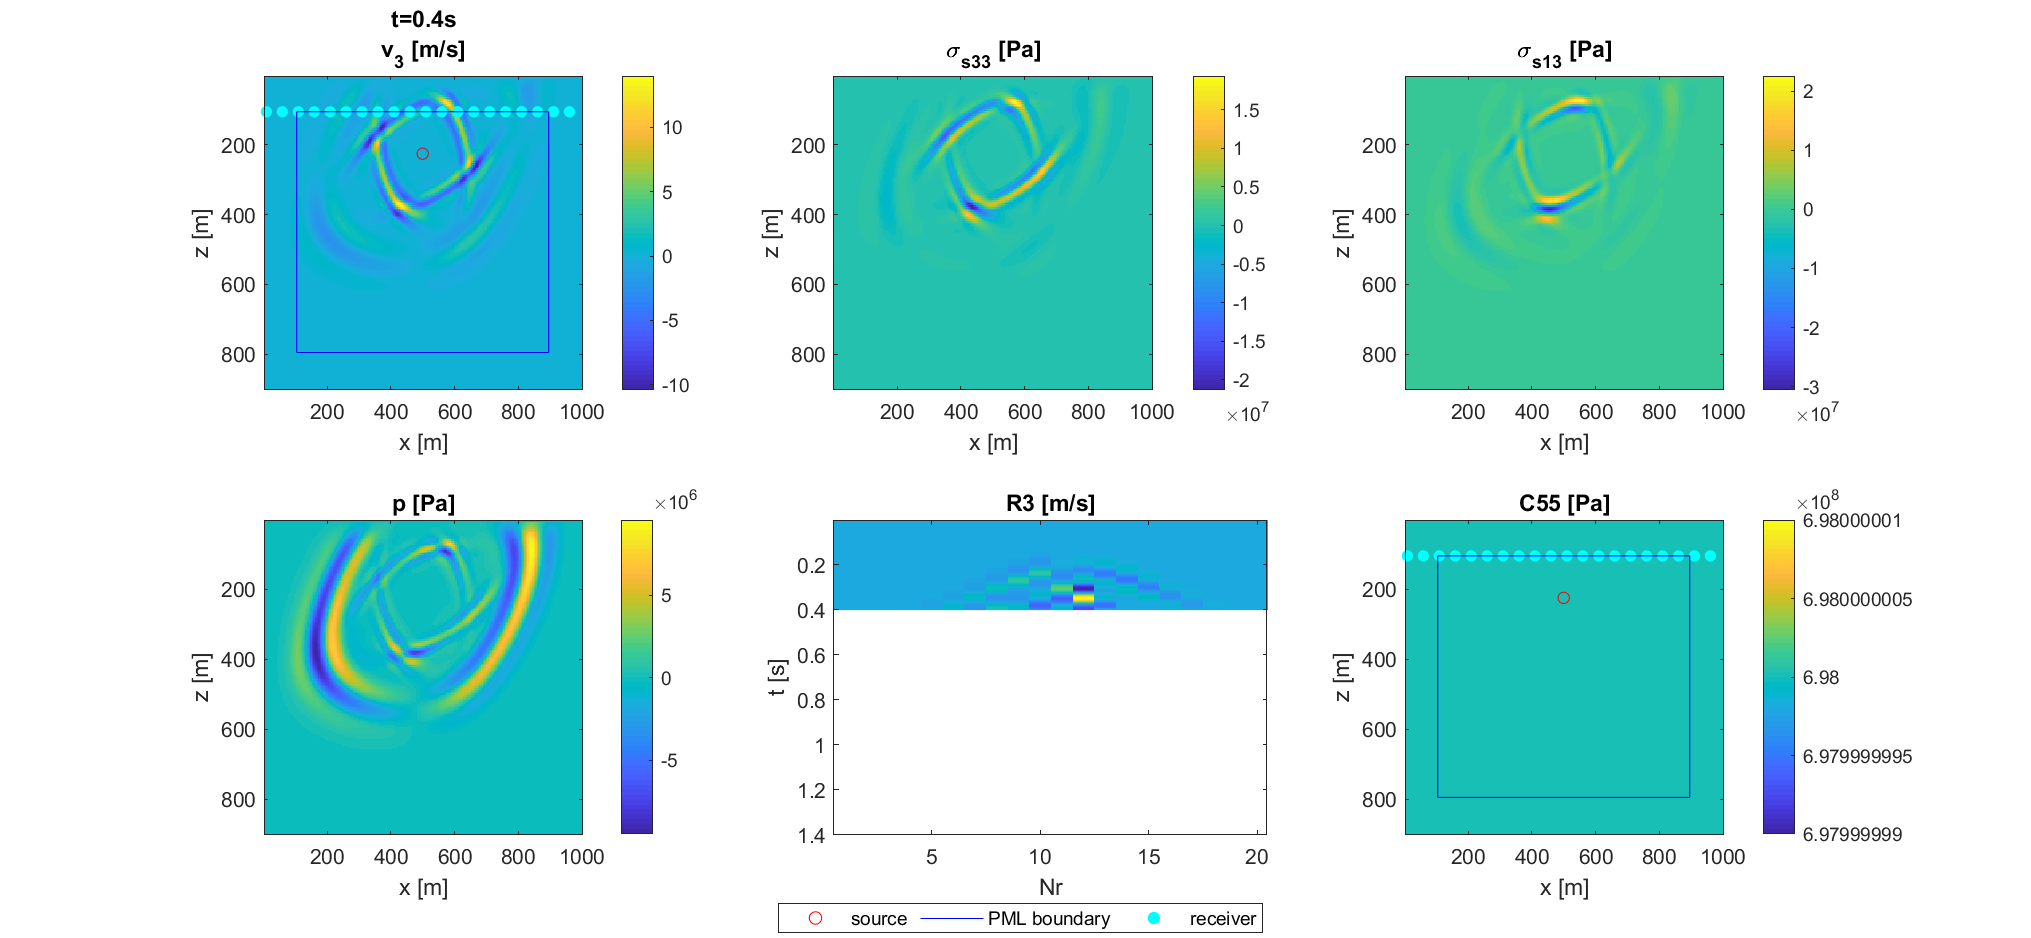
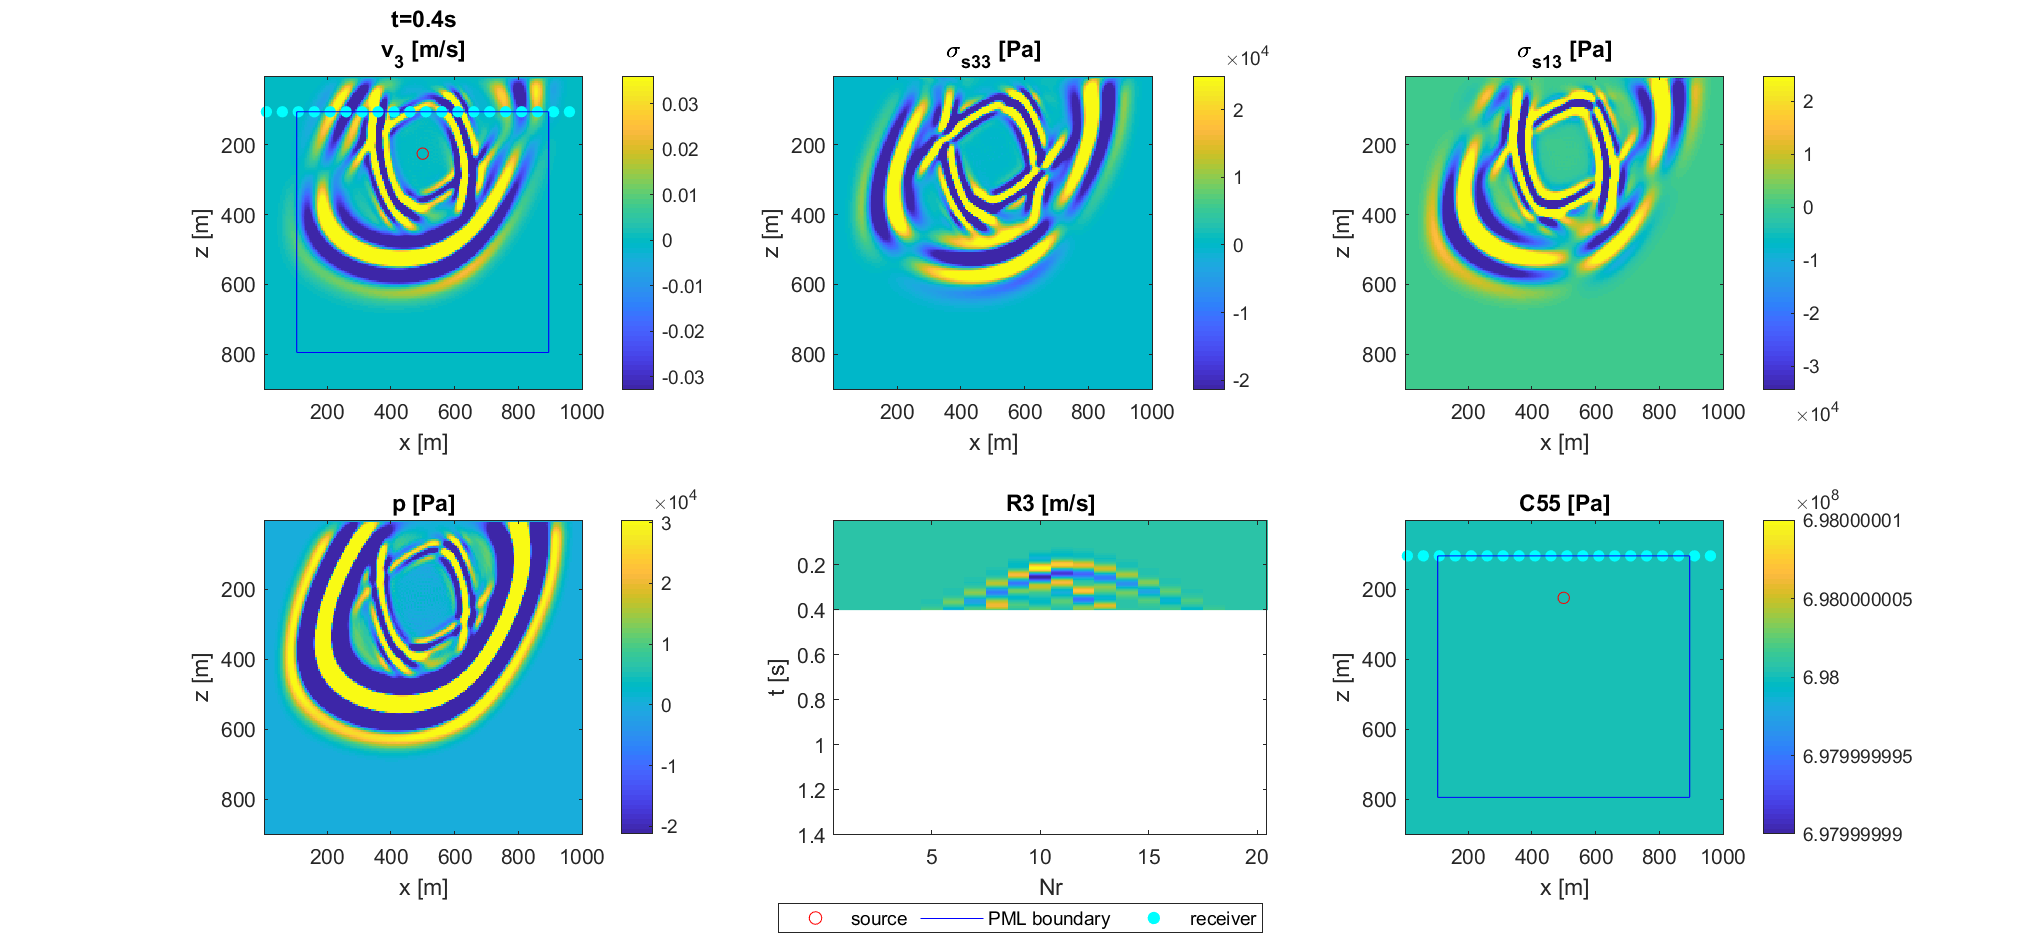
commented

diff --git a/rock_sample_Scholte.m b/rock_sample_Scholte.m
@@ -2,37 +2,49 @@
 close all;
 clear all;
 
+% load image
 A=imread('NS.png');
 A=im2double(A);
 
+% add 10 layers around the original image for air
 A=[repmat(A(1,:),[10,1]);
     A;
     repmat(A(end,:),[10,1])];
 A=[repmat(A(:,1),[1,10]),A,repmat(A(:,end),[1,10])];
+
+% find solid locations
 solid=find(A==1);
+
+% find pore locations
 fluid=find(A==0);
 
+% dimensions
 dt=10^-9;
 dx=10^-5;
 dz=10^-5;
-nt=5000;
-
+nt=5000*10;
 nx=size(A,1);
 nz=size(A,2);
 
+% receiver locations [m]
 r1=(2:10:(nx-1))*dx;
 r3=(ones(size(r1)))*(nz-11)*dz;
 
+% PML layers
 lp=10;
+% PML coefficient, usually 2
 nPML=2;
+
+% Theoretical coefficient, more PML layers, less R
+% Empirical values
+% lp=[10,20,30,40]
+% R=[.1,.01,.001,.0001]
 R=.001;
 
+% generate empty density
 rho=zeros(nx,nz);
 
-
-lambda2=zeros(nx,nz);
-mu2=zeros(nx,nz);
-
+% generate empty elastic stiffness
 C11=zeros(nx,nz);
 C13=C11;
 C15=C11;
@@ -40,6 +52,7 @@ C33=C11;
 C35=C11;
 C55=C11;
 
+% generate empty viscous modulus
 Eta11=C11;
 Eta13=C11;
 Eta15=C11;
@@ -47,9 +60,11 @@ Eta33=C11;
 Eta35=C11;
 Eta55=C11;
 
+% Lame constants for solid
 mu=2.94*10^3*(1490)^2;
 lambda=2.94*10^3*(2860)^2-2*mu;
 
+% assign solid with its stiffness
 C11(solid)=lambda;
 C13(solid)=lambda;
 C15(solid)=0;
@@ -58,6 +73,7 @@ C35(solid)=0;
 C55(solid)=mu;
 rho(solid)=2.94*10^3;
 
+% assign air with its stiffness
 C11(fluid)=1145*340^2;
 C13(fluid)=1145*340^2;
 C15(fluid)=0;
@@ -66,14 +82,15 @@ C35(fluid)=0;
 C55(fluid)=0;
 rho(fluid)=1145;
 
+% find surrounding layers
 [a1,b1]=meshgrid(1:10,1:nz);
 [a2,b2]=meshgrid(nx-10+1:nx,1:nz);
 [a3,b3]=meshgrid(1:nx,1:10);
 [a4,b4]=meshgrid(1:nx,nz-10+1:nz);
-
 IND_air_layer=sub2ind([nx,nz],[reshape(a1,[1,10*nz]),reshape(a2,[1,10*nz]),reshape(a3,[1,10*nx]),reshape(a4,[1,10*nx])],...
     [reshape(b1,[1,10*nz]),reshape(b2,[1,10*nz]),reshape(b3,[1,10*nx]),reshape(b4,[1,10*nx])]);
 
+% assign surrounding layers with air
 C11(IND_air_layer)=1145*340^2;
 C13(IND_air_layer)=1145*340^2;
 C15(IND_air_layer)=0;
@@ -82,6 +99,7 @@ C35(IND_air_layer)=0;
 C55(IND_air_layer)=0;
 rho(IND_air_layer)=1145;
 
+% ratio for viscous term over stiffness term
 scale=0;
 Eta11=C11*scale;
 Eta13=C13*scale;
@@ -89,22 +107,41 @@ Eta15=C15*scale;
 Eta33=C33*scale;
 Eta35=C35*scale;
 Eta55=C55*scale;
+
 % source
+% magnitude
 M=2.7;
+
+% source locations
 s1=fix(nx/2)*dx;
 s3=11*dz;
-sn=length(s1);
+
+% source frequency [Hz]
 freq=5*10^6;
+
+% source signal
 singles=rickerWave(freq,dt,nt,M);
+
+% give source signal to x direction
 src1=zeros(nt,1);
+src1=1*[singles];
+
+% give source signal to z direction
 src3=src1;
-src1=0*[singles];
 src3=1*[singles];
-source_type='D';
+
+% source type. 'D' for directional source. 'P' for P-source.
+source_type='P';
+
+% point interval in time steps
 plot_interval=500;
+
+% whether to save figure. 1 for save. 0 for not.
 save_figure=1;
-path='./monoclinic_interface/';
-%%
+
+% figure path
+path='./rock_sample_Scholte/';
+%% pass parameters to solver
 [v1,v3,R1,R3]=monoclinic_2D_xz(dt,dx,dz,nt,nx,nz,...
     r1,r3,...
     s1,s3,src1,src3,source_type,...
@@ -113,3 +150,15 @@ path='./monoclinic_interface/';
     Eta11,Eta13,Eta15,Eta33,Eta35,Eta55,...
     plot_interval,...
     save_figure,path);
+%% plot recordings
+% Choose numer of reiceivers to plot
+Nr=[3,4,5];
+
+figure('name','v3 [m/s]');
+for i=1:length(Nr)
+    subplot(length(Nr),1,i)
+    plot((1:nt)*dt,R3(:,Nr(i)));
+    xlabel('t [s]');
+    ylabel('v3 [m/s]');
+    title(num2str(Nr(i)));
+end

diff --git a/monoclinic_2D_xz.m b/monoclinic_2D_xz.m
@@ -278,7 +278,9 @@ for l=2:nt-1
         legend([ax2,ax3,ax4],...
             'source','PML boundary','receiver',...
             'Location',[0.5,0.02,0.005,0.002],'orientation','horizontal');
-        saveas(gcf,[path num2str(10^5+(l+1)) '.png']);
+        if save_figure==1
+            saveas(gcf,[path num2str(10^5+(l+1)) '.png']);
+        end
     end
     fprintf('\n time step=%d/%d',l+1,nt);
     fprintf('\n    epalsed time=%.2fs',toc);

diff --git a/monoclinic_homogenous.m b/monoclinic_homogenous.m
@@ -66,14 +66,13 @@ Eta55=C55*scale;
 M=2.7;
 s1=fix(nx/2)*dx;
 s3=fix(nz/4)*dz;
-sn=length(s1);
 freq=8;
 singles=rickerWave(freq,dt,nt,M);
 src1=zeros(nt,1);
 src3=src1;
 src1=1*[singles];
-src3=0*[singles];
-source_type='D';
+src3=1*[singles];
+source_type='P';
 plot_interval=200;
 save_figure=1;
 path='./monoclinic_homogenous/';

diff --git a/rock_sample_PML.m b/rock_sample_PML.m
@@ -85,7 +85,7 @@ src3=1*[singles];
 source_type='D';
 plot_interval=500;
 save_figure=1;
-path='./monoclinic_interface/';
+path='./rock_sample_PML/';
 %%
 [v1,v3,R1,R3]=monoclinic_2D_xz(dt,dx,dz,nt,nx,nz,...
     r1,r3,...
